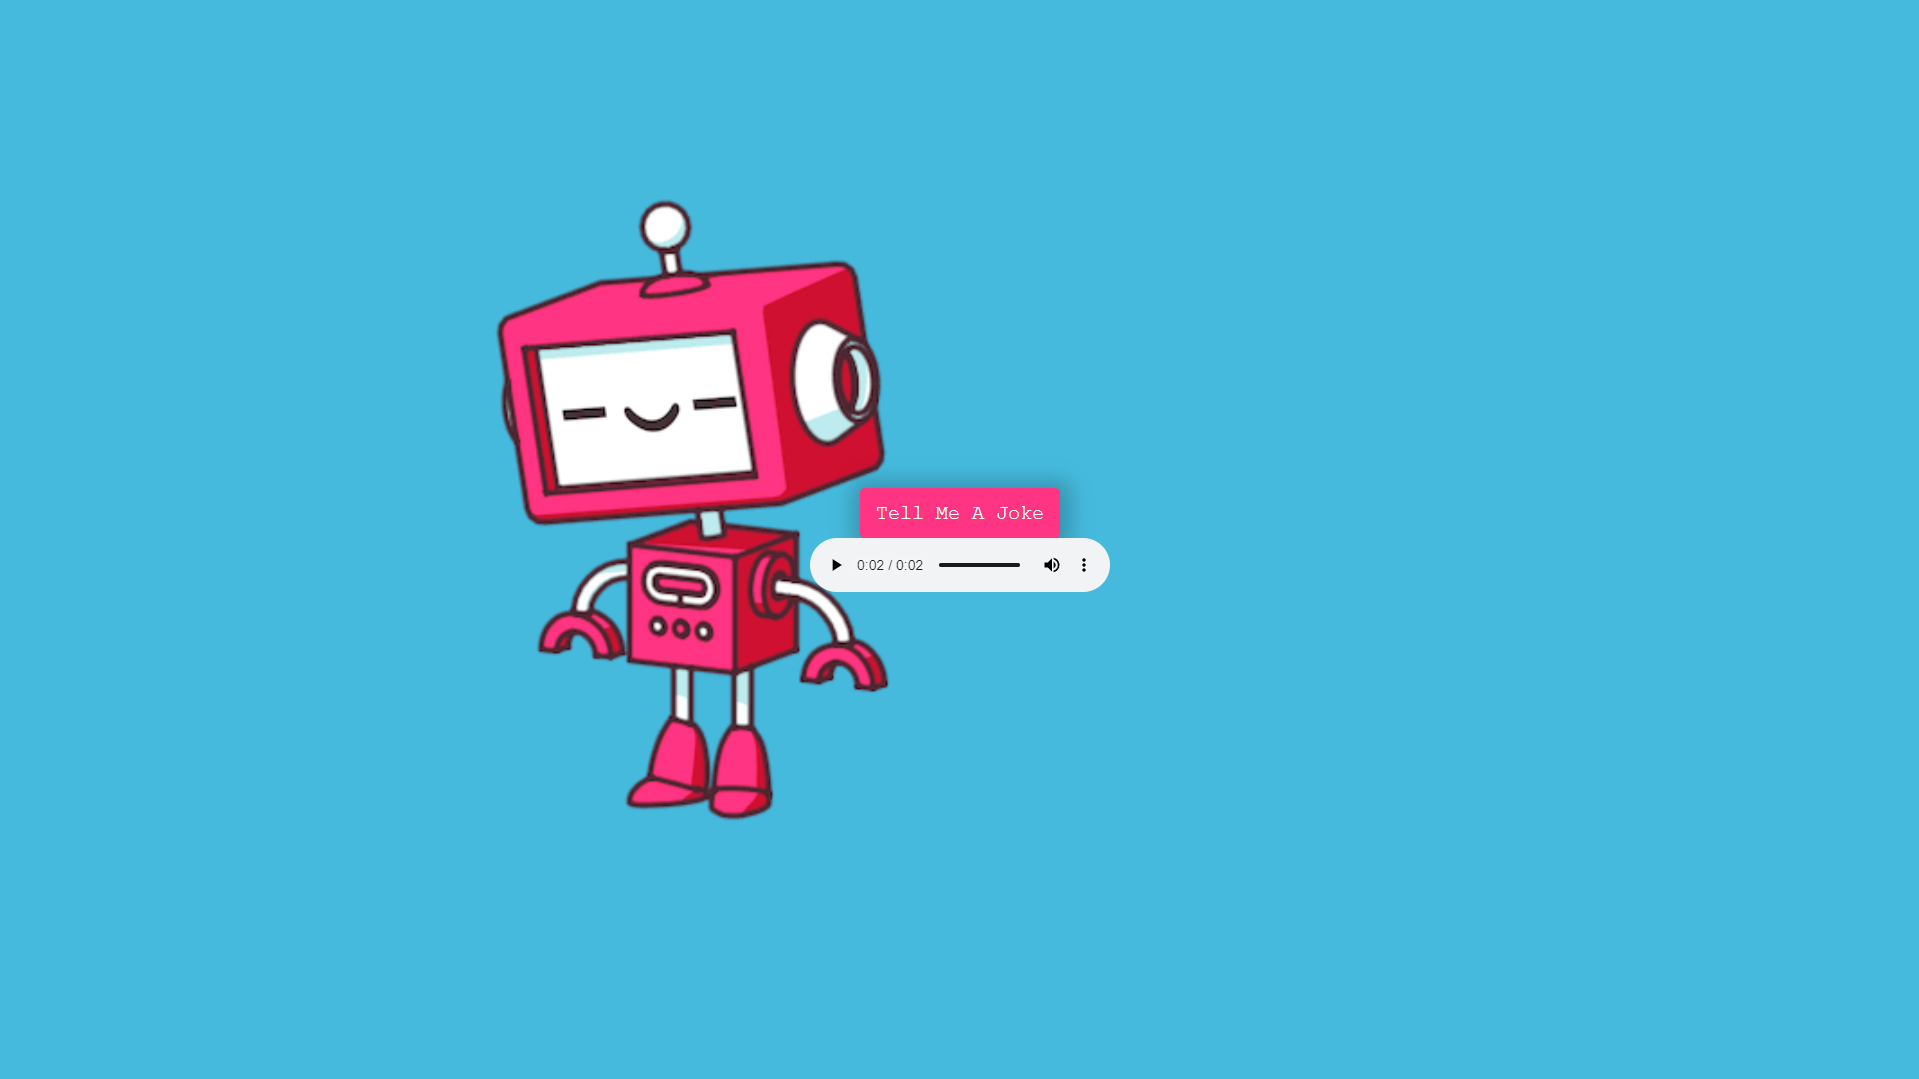
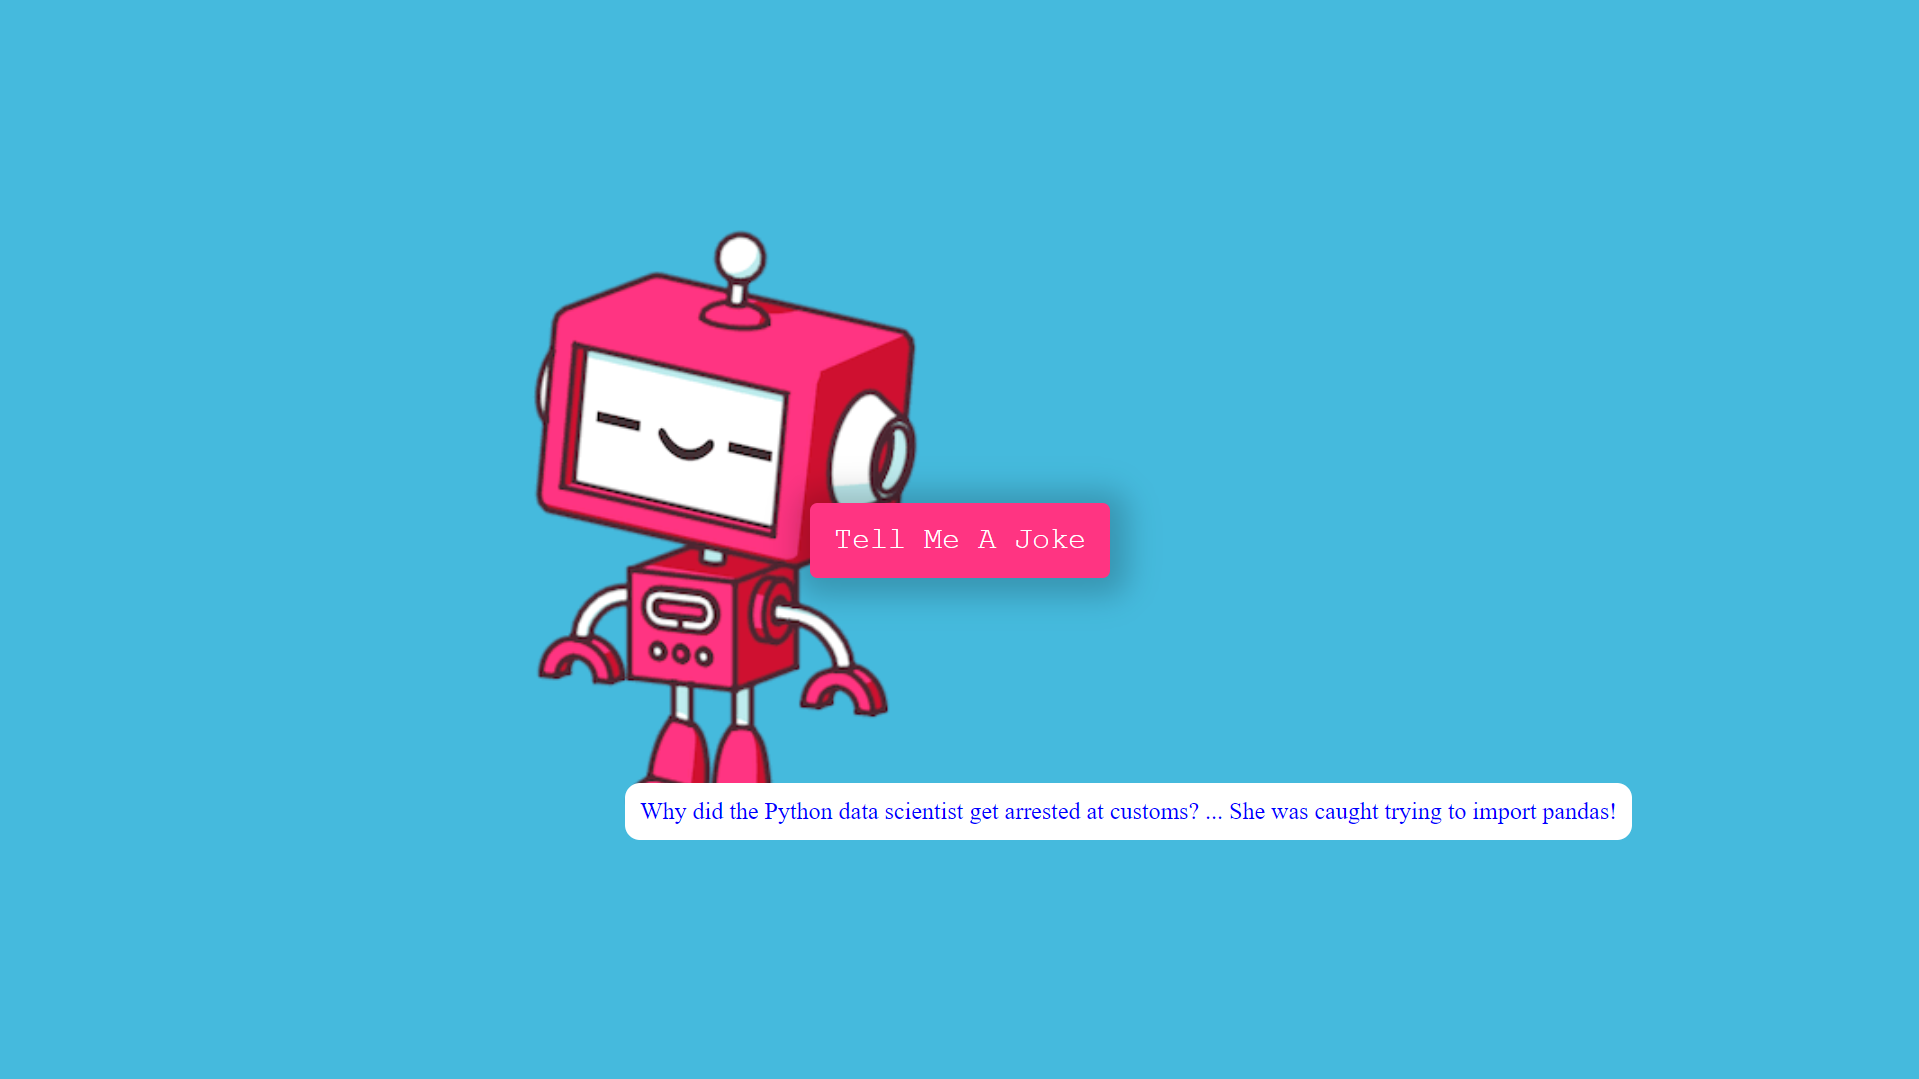
commit

Changed region(s): [[0.246, 0.1835, 0.5842, 0.6728], [0.3075, 0.7034, 0.8609, 0.7952]]

diff --git a/04-joke-teller/script.js b/04-joke-teller/script.js
@@ -1,10 +1,9 @@
 const button = document.querySelector('#button')
 const audioElement = document.querySelector('#audio')
-
-// Disable/Enable Button
-function toggleButton() {
-    button.disabled = !button.disabled;
-}
+// // Disable/Enable Button
+// function toggleButton() {
+//     button.disabled = !button.disabled;
+// }
 
 // Function to remove old joke from the webpage
 function removeOldJoke() {
@@ -53,7 +52,7 @@ async function getJokes() {
         }
         tellMe(joke);
         displayJoke(joke);
-        toggleButton();
+        // toggleButton();
     } catch (error) {
         console.log(error);
     }
@@ -62,4 +61,4 @@ async function getJokes() {
 
 // Event Listeners
 button.addEventListener('click', getJokes)
-audioElement.addEventListener('ended', toggleButton)
+// audioElement.addEventListener('ended', toggleButton)

diff --git a/04-joke-teller/index.html b/04-joke-teller/index.html
@@ -18,6 +18,7 @@
     <!-- Script -->
     <script src="voice.js"></script>
     <script src="script.js"></script>
+
 </body>
 
 </html>
